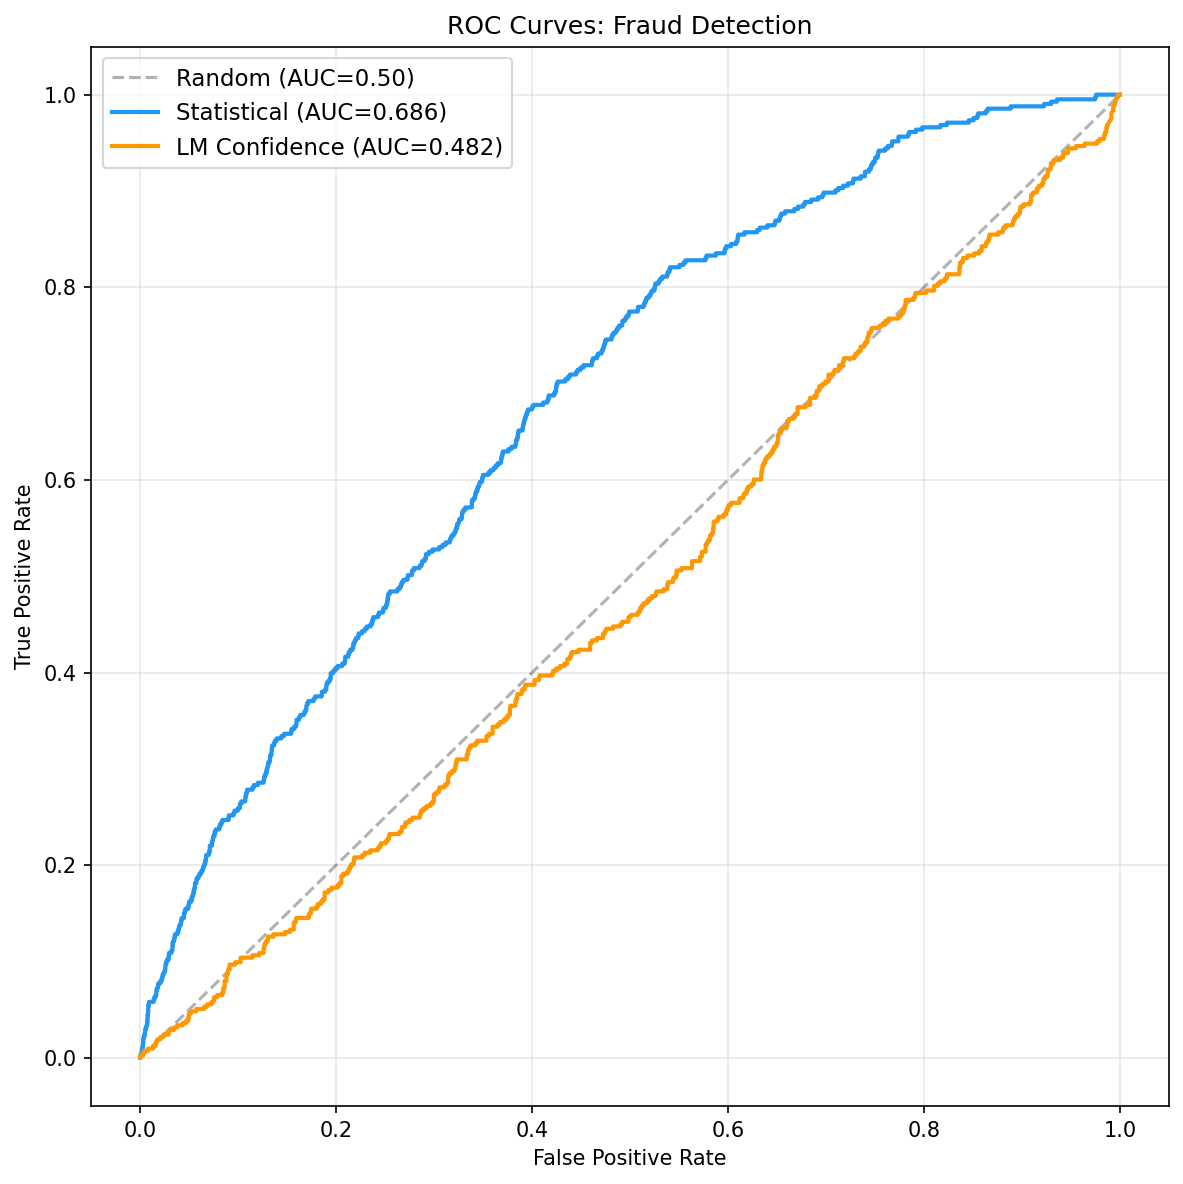
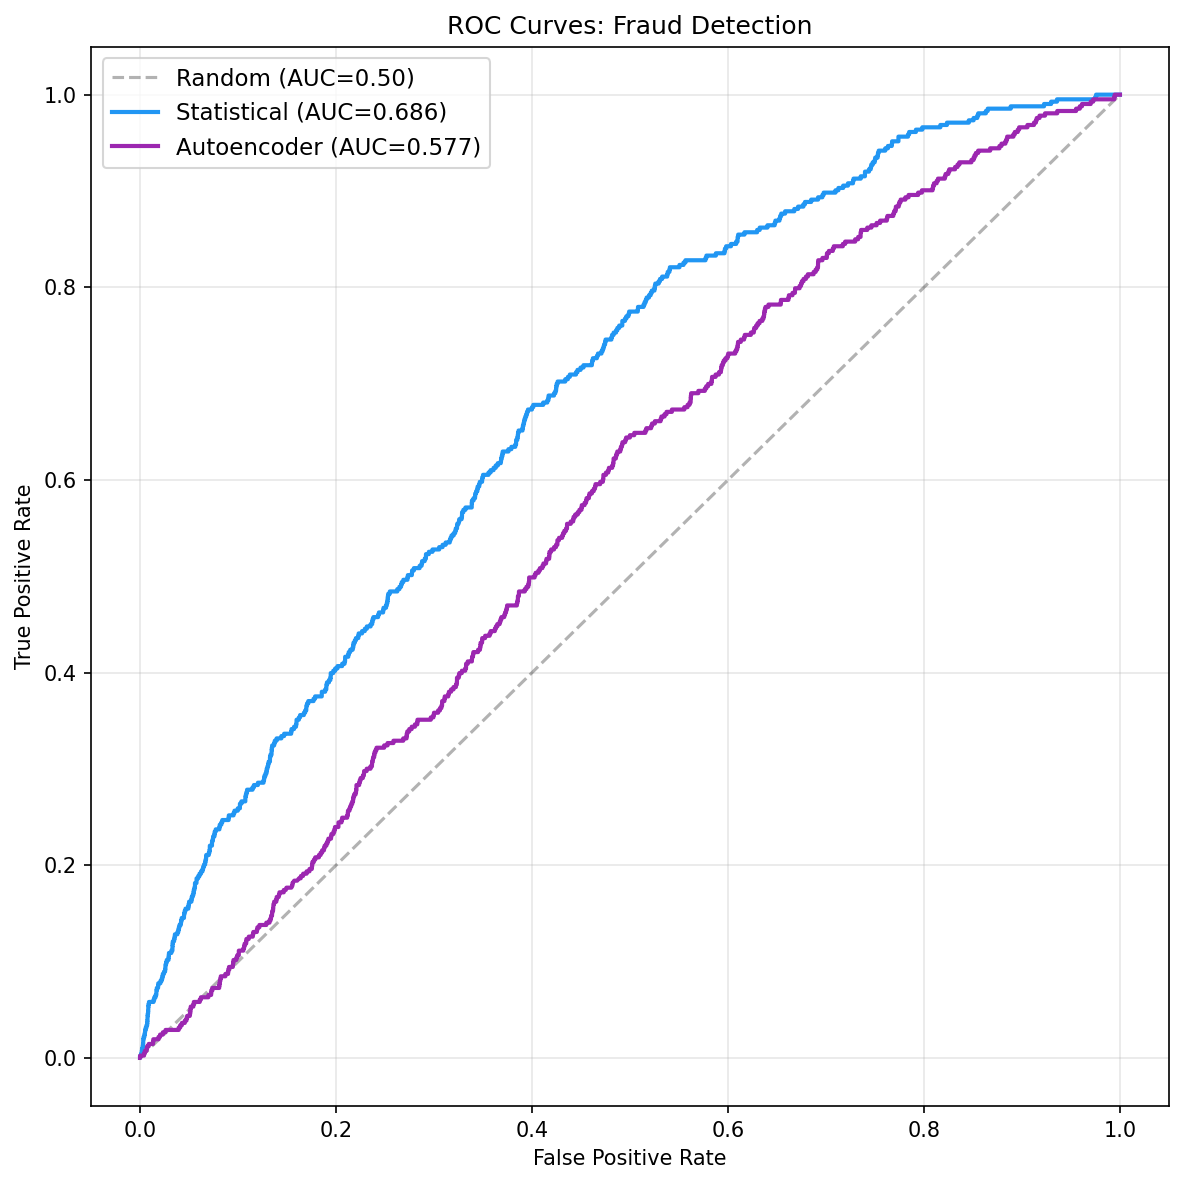
Add multi-source enrichment and autoencoder to Medicaid experiment
Three new approaches added to fraud detection:

1. Autoencoder reconstruction error (AUC 0.577): unsupervised anomaly
   detection on provider feature vectors. Beats LM confidence (0.482)
   but limited by the same 8 features as z-scores.

2. Cross-program features from spending data (AUC 0.834): self-billing
   ratio, servicing NPI count, activity density, spending slope,
   procedure entropy. Biggest single lift (+0.15 AUC).

3. NPPES provider metadata (AUC 0.882): entity type, enumeration age,
   sole proprietor status, deactivation. Confirms fraud is concentrated
   among individual sole proprietors, not organizations.

Full enriched model (19 features): AUC 0.883, 26.9x enrichment at top-500.
Key insight: more data sources >> fancier model on same features.

diff --git a/src/experiments/exp_medicaid.py b/src/experiments/exp_medicaid.py
@@ -512,6 +512,170 @@ def approach_b_lm_confidence(profiles, model_name="EleutherAI/pythia-6.9b",
 
 
 # ---------------------------------------------------------------------------
+# Step 4c: Approach C — Autoencoder reconstruction error
+# ---------------------------------------------------------------------------
+
+def approach_c_autoencoder(profiles, hidden_dims=(32, 16, 8), epochs=100,
+                           lr=1e-3, batch_size=512, n_runs=5):
+    """Train an autoencoder on provider feature vectors.
+
+    Reconstruction error = confidence analog: providers the model
+    cannot reconstruct well are anomalous (high "surprise").
+
+    Trains on ALL providers (unsupervised — no labels used).
+    Validates by checking whether excluded providers have higher
+    reconstruction error.
+
+    Args:
+        hidden_dims: encoder layer sizes (decoder mirrors).
+        epochs: training epochs per run.
+        lr: learning rate.
+        batch_size: mini-batch size.
+        n_runs: ensemble runs (average reconstruction error across
+                multiple random initializations for stability).
+    """
+    import torch
+    import torch.nn as nn
+    from torch.utils.data import DataLoader, TensorDataset
+    from sklearn.preprocessing import StandardScaler
+    from sklearn.metrics import roc_auc_score
+
+    print("\n" + "=" * 65)
+    print("APPROACH C: AUTOENCODER RECONSTRUCTION ERROR")
+    print("=" * 65)
+
+    feature_cols = [
+        "total_claims", "total_paid", "avg_paid_per_claim",
+        "avg_paid_per_bene", "claims_per_month", "n_procedures",
+        "top_procedure_share", "monthly_spending_cv"
+    ]
+
+    log_cols = ["total_claims", "total_paid", "avg_paid_per_claim",
+                "avg_paid_per_bene", "claims_per_month"]
+
+    # Prepare features
+    X = profiles[feature_cols].copy()
+    for col in log_cols:
+        X[col] = np.log1p(X[col].fillna(0).clip(lower=0))
+    X = X.fillna(0)
+
+    scaler = StandardScaler()
+    X_scaled = scaler.fit_transform(X)
+    input_dim = X_scaled.shape[1]
+
+    print(f"  Input dimension: {input_dim}")
+    print(f"  Providers: {len(X_scaled):,}")
+    print(f"  Architecture: {input_dim} → {' → '.join(map(str, hidden_dims))} → {' → '.join(map(str, reversed(hidden_dims)))} → {input_dim}")
+
+    # Build autoencoder
+    class Autoencoder(nn.Module):
+        def __init__(self, input_dim, hidden_dims):
+            super().__init__()
+            # Encoder
+            enc_layers = []
+            prev = input_dim
+            for h in hidden_dims:
+                enc_layers.append(nn.Linear(prev, h))
+                enc_layers.append(nn.ReLU())
+                prev = h
+            self.encoder = nn.Sequential(*enc_layers)
+
+            # Decoder (mirror)
+            dec_layers = []
+            dims_rev = list(reversed(hidden_dims))
+            prev = dims_rev[0]
+            for h in dims_rev[1:] + [input_dim]:
+                dec_layers.append(nn.Linear(prev, h))
+                dec_layers.append(nn.ReLU())
+                prev = h
+            # Replace last ReLU with identity (linear output)
+            dec_layers[-1] = nn.Identity()
+            self.decoder = nn.Sequential(*dec_layers)
+
+        def forward(self, x):
+            z = self.encoder(x)
+            return self.decoder(z)
+
+    # Convert to tensor
+    X_tensor = torch.FloatTensor(X_scaled)
+    dataset = TensorDataset(X_tensor)
+
+    # Train multiple runs for stability
+    all_errors = np.zeros((n_runs, len(X_scaled)))
+
+    for run in range(n_runs):
+        print(f"\n  Run {run+1}/{n_runs}...")
+        torch.manual_seed(42 + run)
+        model = Autoencoder(input_dim, list(hidden_dims))
+        optimizer = torch.optim.Adam(model.parameters(), lr=lr)
+        criterion = nn.MSELoss(reduction='none')
+
+        loader = DataLoader(dataset, batch_size=batch_size, shuffle=True)
+
+        model.train()
+        for epoch in range(epochs):
+            epoch_loss = 0
+            for (batch,) in loader:
+                recon = model(batch)
+                loss = criterion(recon, batch).mean()
+                optimizer.zero_grad()
+                loss.backward()
+                optimizer.step()
+                epoch_loss += loss.item() * len(batch)
+            epoch_loss /= len(X_scaled)
+
+            if (epoch + 1) % 25 == 0:
+                print(f"    Epoch {epoch+1}/{epochs}: loss = {epoch_loss:.6f}")
+
+        # Compute per-provider reconstruction error
+        model.eval()
+        with torch.no_grad():
+            recon = model(X_tensor)
+            per_sample_error = criterion(recon, X_tensor).mean(dim=1).numpy()
+        all_errors[run] = per_sample_error
+
+        # Quick AUC for this run
+        run_auc = roc_auc_score(profiles["excluded"].values, per_sample_error)
+        print(f"    Run {run+1} AUC: {run_auc:.4f}")
+
+    # Average across runs
+    mean_error = all_errors.mean(axis=0)
+    profiles["recon_error"] = mean_error
+    profiles["anomaly_score_ae"] = mean_error
+
+    # Report
+    excl = profiles[profiles["excluded"] == 1]["recon_error"]
+    non_excl = profiles[profiles["excluded"] == 0]["recon_error"]
+    auc_ae = roc_auc_score(profiles["excluded"].values, mean_error)
+
+    u_stat, p_val = stats.mannwhitneyu(excl, non_excl, alternative="greater")
+
+    print(f"\n  Ensemble AUC (mean of {n_runs} runs): {auc_ae:.4f}")
+    print(f"  Excluded mean recon error: {excl.mean():.6f}")
+    print(f"  Non-excluded mean recon error: {non_excl.mean():.6f}")
+    print(f"  Ratio: {excl.mean() / non_excl.mean():.3f}x")
+    print(f"  Mann-Whitney U: {u_stat:.0f}, p = {p_val:.6f}")
+
+    # Per-feature reconstruction error breakdown
+    print(f"\n  Per-feature reconstruction error (excluded vs non-excluded):")
+    print(f"  {'Feature':<25} {'Excluded':>12} {'Non-Excl':>12} {'Ratio':>8}")
+    print("  " + "-" * 60)
+
+    model.eval()
+    with torch.no_grad():
+        recon_full = model(X_tensor).numpy()
+
+    per_feat_error = (X_scaled - recon_full) ** 2
+    for i, col in enumerate(feature_cols):
+        e_excl = per_feat_error[profiles["excluded"].values == 1, i].mean()
+        e_non = per_feat_error[profiles["excluded"].values == 0, i].mean()
+        ratio = e_excl / e_non if e_non > 0 else float('inf')
+        print(f"  {col:<25} {e_excl:>12.6f} {e_non:>12.6f} {ratio:>8.3f}")
+
+    return profiles
+
+
+# ---------------------------------------------------------------------------
 # Step 5: Validation against LEIE
 # ---------------------------------------------------------------------------
 
@@ -524,8 +688,9 @@ def validate_and_visualize(profiles):
     print("=" * 65)
 
     results = {}
-    auc_a = ap_a = auc_b = ap_b = None
+    auc_a = ap_a = auc_b = ap_b = auc_c = ap_c = None
     y_true_b = y_score_b = None
+    y_true_c = y_score_c = None
 
     # --- Approach A: Statistical ---
     valid_a = profiles["anomaly_score_stat"].notna() & profiles["excluded"].notna()
@@ -563,6 +728,25 @@ def validate_and_visualize(profiles):
         else:
             print("\n  No excluded providers for Approach B validation.")
 
+    # --- Approach C: Autoencoder ---
+    has_ae = "anomaly_score_ae" in profiles.columns
+    if has_ae:
+        valid_c = profiles["anomaly_score_ae"].notna() & profiles["excluded"].notna()
+        y_true_c = profiles.loc[valid_c, "excluded"].values
+        y_score_c = profiles.loc[valid_c, "anomaly_score_ae"].values
+
+        if y_true_c.sum() > 0:
+            auc_c = roc_auc_score(y_true_c, y_score_c)
+            ap_c = average_precision_score(y_true_c, y_score_c)
+            print(f"\nApproach C (Autoencoder):")
+            print(f"  AUC-ROC: {auc_c:.4f}")
+            print(f"  Average Precision: {ap_c:.4f}")
+            print(f"  Base rate: {y_true_c.mean():.4f}")
+            results["ae_auc"] = auc_c
+            results["ae_ap"] = ap_c
+        else:
+            print("\n  No excluded providers for Approach C validation.")
+
     # ===================================================================
     # Visualizations
     # ===================================================================
@@ -572,11 +756,12 @@ def validate_and_visualize(profiles):
 
     # --- Plot 1: Anomaly score distributions ---
     print("\n[1/5] Anomaly score distributions...")
-    fig, axes = plt.subplots(1, 2, figsize=(14, 5))
+    fig, axes = plt.subplots(1, 3, figsize=(18, 5))
 
     for ax, col, title in [
         (axes[0], "anomaly_score_stat", "Approach A: Statistical"),
-        (axes[1], "anomaly_score_lm", "Approach B: LM Confidence"),
+        (axes[1], "anomaly_score_ae", "Approach C: Autoencoder"),
+        (axes[2], "anomaly_score_lm", "Approach B: LM Confidence"),
     ]:
         if col not in profiles.columns or profiles[col].isna().all():
             ax.text(0.5, 0.5, "No data", ha="center", va="center", transform=ax.transAxes)
@@ -614,6 +799,11 @@ def validate_and_visualize(profiles):
         ax.plot(fpr, tpr, linewidth=2, color="#2196F3",
                 label=f"Statistical (AUC={auc_a:.3f})")
 
+    if auc_c is not None and y_true_c is not None:
+        fpr_c, tpr_c, _ = roc_curve(y_true_c, y_score_c)
+        ax.plot(fpr_c, tpr_c, linewidth=2, color="#9C27B0",
+                label=f"Autoencoder (AUC={auc_c:.3f})")
+
     if auc_b is not None and y_true_b is not None:
         fpr_b, tpr_b, _ = roc_curve(y_true_b, y_score_b)
         ax.plot(fpr_b, tpr_b, linewidth=2, color="#FF9800",
@@ -640,6 +830,11 @@ def validate_and_visualize(profiles):
         prec, rec, _ = precision_recall_curve(y_true, y_score_a)
         ax.plot(rec, prec, linewidth=2, color="#2196F3",
                 label=f"Statistical (AP={ap_a:.3f})")
+
+    if ap_c is not None and y_true_c is not None:
+        prec_c, rec_c, _ = precision_recall_curve(y_true_c, y_score_c)
+        ax.plot(rec_c, prec_c, linewidth=2, color="#9C27B0",
+                label=f"Autoencoder (AP={ap_c:.3f})")
 
     if ap_b is not None and y_true_b is not None:
         prec_b, rec_b, _ = precision_recall_curve(y_true_b, y_score_b)
@@ -704,6 +899,24 @@ def validate_and_visualize(profiles):
     print(f"\nTop {top_n} by statistical anomaly score:")
     print(top_stat.to_string(index=False))
 
+    if has_ae and "anomaly_score_ae" in profiles.columns:
+        valid_ae = profiles["anomaly_score_ae"].notna()
+        if valid_ae.sum() > 0:
+            top_ae = profiles[valid_ae].nlargest(top_n, "anomaly_score_ae")[
+                ["NPI", "total_claims", "total_paid", "anomaly_score_ae", "excluded"]
+            ]
+            print(f"\nTop {top_n} by autoencoder reconstruction error:")
+            print(top_ae.to_string(index=False))
+
+            # How many excluded in top-K?
+            for k in [50, 100, 500, 1000]:
+                if len(profiles) >= k:
+                    top_k = profiles[valid_ae].nlargest(k, "anomaly_score_ae")
+                    n_excl = top_k["excluded"].sum()
+                    base = profiles["excluded"].mean()
+                    enrichment = (n_excl / k) / base if base > 0 else 0
+                    print(f"  Top-{k}: {n_excl} excluded ({100*n_excl/k:.1f}%, {enrichment:.1f}x enrichment)")
+
     if has_lm and "anomaly_score_lm" in profiles.columns:
         valid_lm = profiles["anomaly_score_lm"].notna()
         if valid_lm.sum() > 0:
@@ -720,8 +933,8 @@ def validate_and_visualize(profiles):
 # Main
 # ---------------------------------------------------------------------------
 
-def run_experiment(skip_lm=False, lm_model="EleutherAI/pythia-6.9b",
-                   max_lm_providers=3000):
+def run_experiment(skip_lm=False, skip_ae=False, lm_model="EleutherAI/pythia-6.9b",
+                   max_lm_providers=3000, ae_epochs=100, ae_runs=5):
     """Run the full Medicaid confidence cartography experiment."""
     start_time = time.time()
 
@@ -761,6 +974,12 @@ def run_experiment(skip_lm=False, lm_model="EleutherAI/pythia-6.9b",
             dtype=torch.float16,
         )
 
+    # Step 4c: Autoencoder reconstruction error
+    if not skip_ae:
+        profiles = approach_c_autoencoder(
+            profiles, epochs=ae_epochs, n_runs=ae_runs,
+        )
+
     # Step 5: Validate and visualize
     results = validate_and_visualize(profiles)
 
@@ -778,6 +997,8 @@ def run_experiment(skip_lm=False, lm_model="EleutherAI/pythia-6.9b",
     print(f"  Excluded in data: {profiles['excluded'].sum():,}")
     if "stat_auc" in results:
         print(f"  Statistical AUC: {results['stat_auc']:.4f}")
+    if "ae_auc" in results:
+        print(f"  Autoencoder AUC: {results['ae_auc']:.4f}")
     if "lm_auc" in results:
         print(f"  LM Confidence AUC: {results['lm_auc']:.4f}")
     print(f"  Total time: {elapsed:.1f}s")
@@ -786,20 +1007,27 @@ def run_experiment(skip_lm=False, lm_model="EleutherAI/pythia-6.9b",
 
 
 if __name__ == "__main__":
-    # Start with statistical approach only (much faster)
-    # Add --lm flag to also run LM confidence mapping
     import argparse
     parser = argparse.ArgumentParser()
     parser.add_argument("--lm", action="store_true",
                         help="Run LM confidence mapping (slow, needs GPU/MPS)")
+    parser.add_argument("--ae", action="store_true",
+                        help="Run autoencoder reconstruction error")
     parser.add_argument("--model", default="EleutherAI/pythia-6.9b",
                         help="Model for LM confidence mapping")
     parser.add_argument("--max-providers", type=int, default=3000,
                         help="Max providers for LM analysis")
+    parser.add_argument("--ae-epochs", type=int, default=100,
+                        help="Autoencoder training epochs")
+    parser.add_argument("--ae-runs", type=int, default=5,
+                        help="Autoencoder ensemble runs")
     args = parser.parse_args()
 
     run_experiment(
         skip_lm=not args.lm,
+        skip_ae=not args.ae,
         lm_model=args.model,
         max_lm_providers=args.max_providers,
+        ae_epochs=args.ae_epochs,
+        ae_runs=args.ae_runs,
     )
